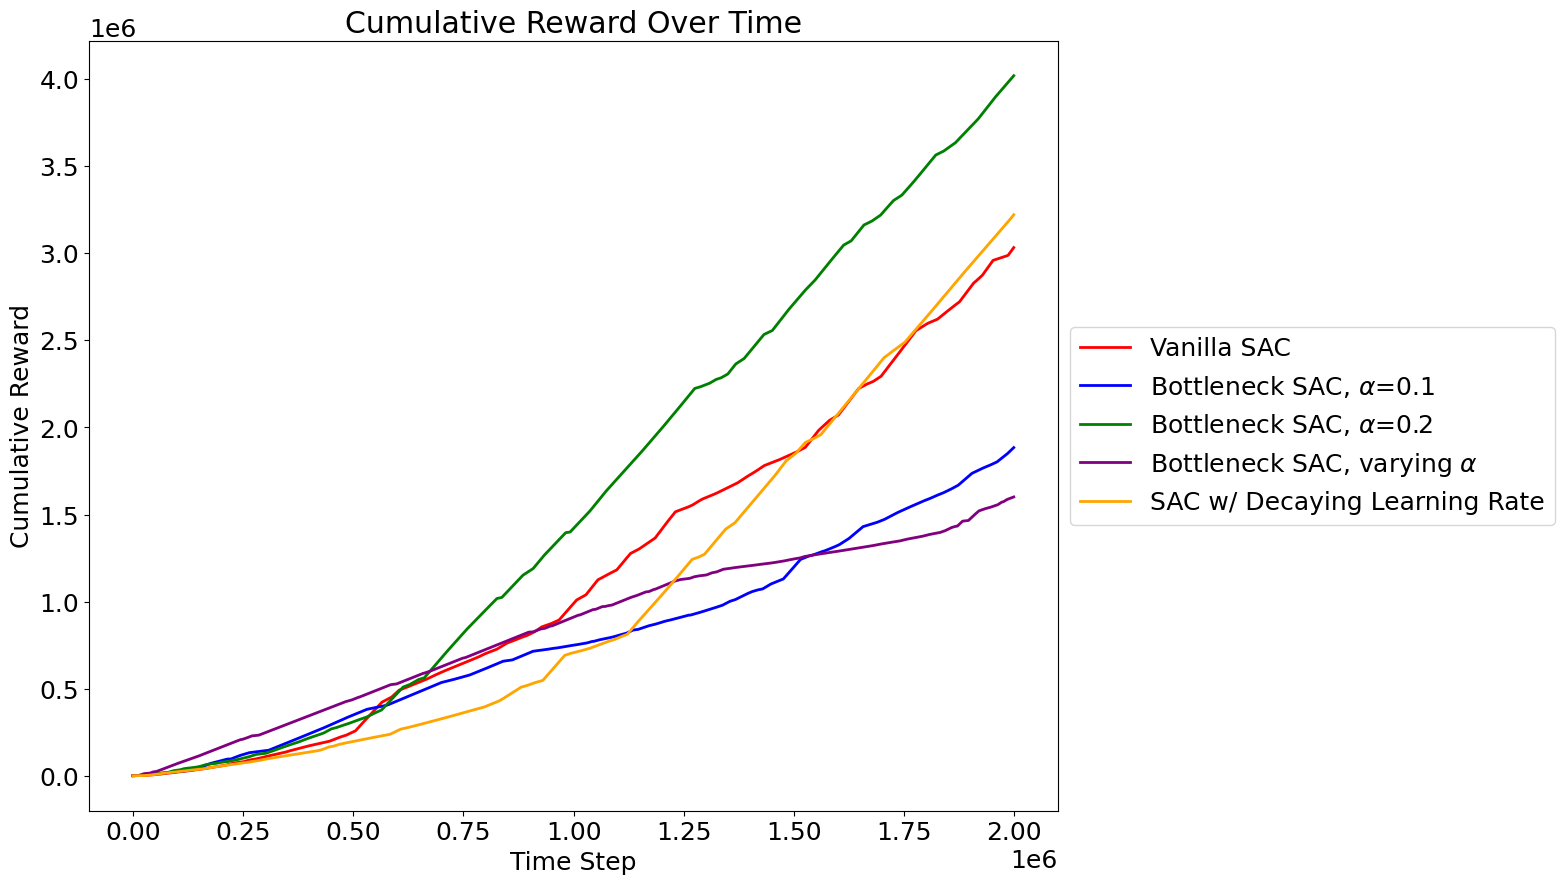
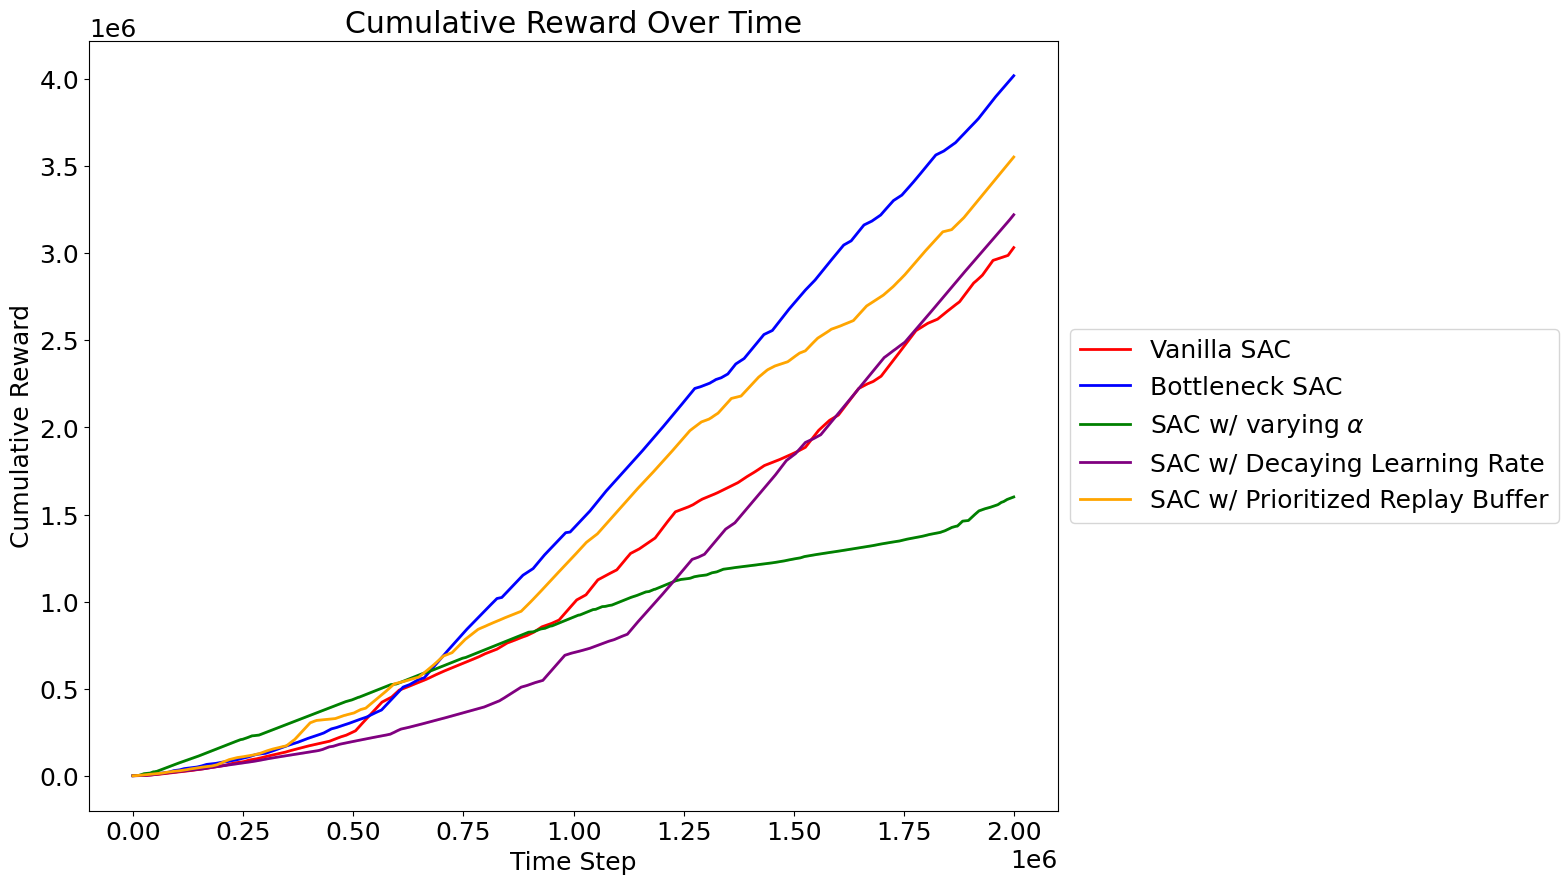
updating sac variant graph

diff --git a/utils/plotting.py b/utils/plotting.py
@@ -254,11 +254,10 @@ if __name__ == '__main__':
     # if only one name, still input it in a list (eg. ['ppo'])
 
     # AVGERAGE AND CUMUMLATIVE REWARD GRAPHS FOR SAC VARIANTS
-    json_list = ["results/sac_variants/vanilla_sac.json", "results/sac_variants/bottleneck_sac_clipped.json",
-        "results/sac_variants/bottleneck_dif_alpha_sac_clipped.json", 
-        "results/sac_variants/bottleneck_varying_alpha_sac_clipped.json",
-        "results/sac_variants/decaying_lr_sac.json"]
-    model_names = ["Vanilla SAC", "Bottleneck SAC, $\\alpha$=0.1",  "Bottleneck SAC, $\\alpha$=0.2",  
-        "Bottleneck SAC, varying $\\alpha$",  "SAC w/ Decaying Learning Rate"]
+    json_list = ["results/sac_variants/vanilla_sac.json", "results/sac_variants/bottleneck_sac.json",
+        "results/sac_variants/varying_alpha_sac.json",
+        "results/sac_variants/decaying_lr_sac.json", "results/sac_variants/replay_buffer_sac.json"]
+    model_names = ["Vanilla SAC", "Bottleneck SAC", "SAC w/ varying $\\alpha$",  
+        "SAC w/ Decaying Learning Rate", "SAC w/ Prioritized Replay Buffer"]
     plot_json_rewards(json_list, save_location="results/sac_variants", model_names=model_names, 
         time_step=1000)

diff --git a/utils/json_utils.py b/utils/json_utils.py
@@ -72,8 +72,8 @@ def clip_to_n_train_iterations_json(path_to_json_old: str, path_to_json_new: str
             auc_mean_reward, "", new_rewards_list)
 
 if __name__ == '__main__':
-    sac_json_old = "results/sac_variants/bottleneck_varying_alpha_sac.json"
-    sac_json_new = "results/sac_variants/bottleneck_varying_alpha_sac_clipped.json"
+    sac_json_old = "results/2022-04-26_00h51m53/log.json"
+    sac_json_new = "results/sac_variants/replay_buffer_sac.json"
     n_iterations = int(2_000_000/1000)
 
     clip_to_n_train_iterations_json(sac_json_old, sac_json_new, n_iterations)
